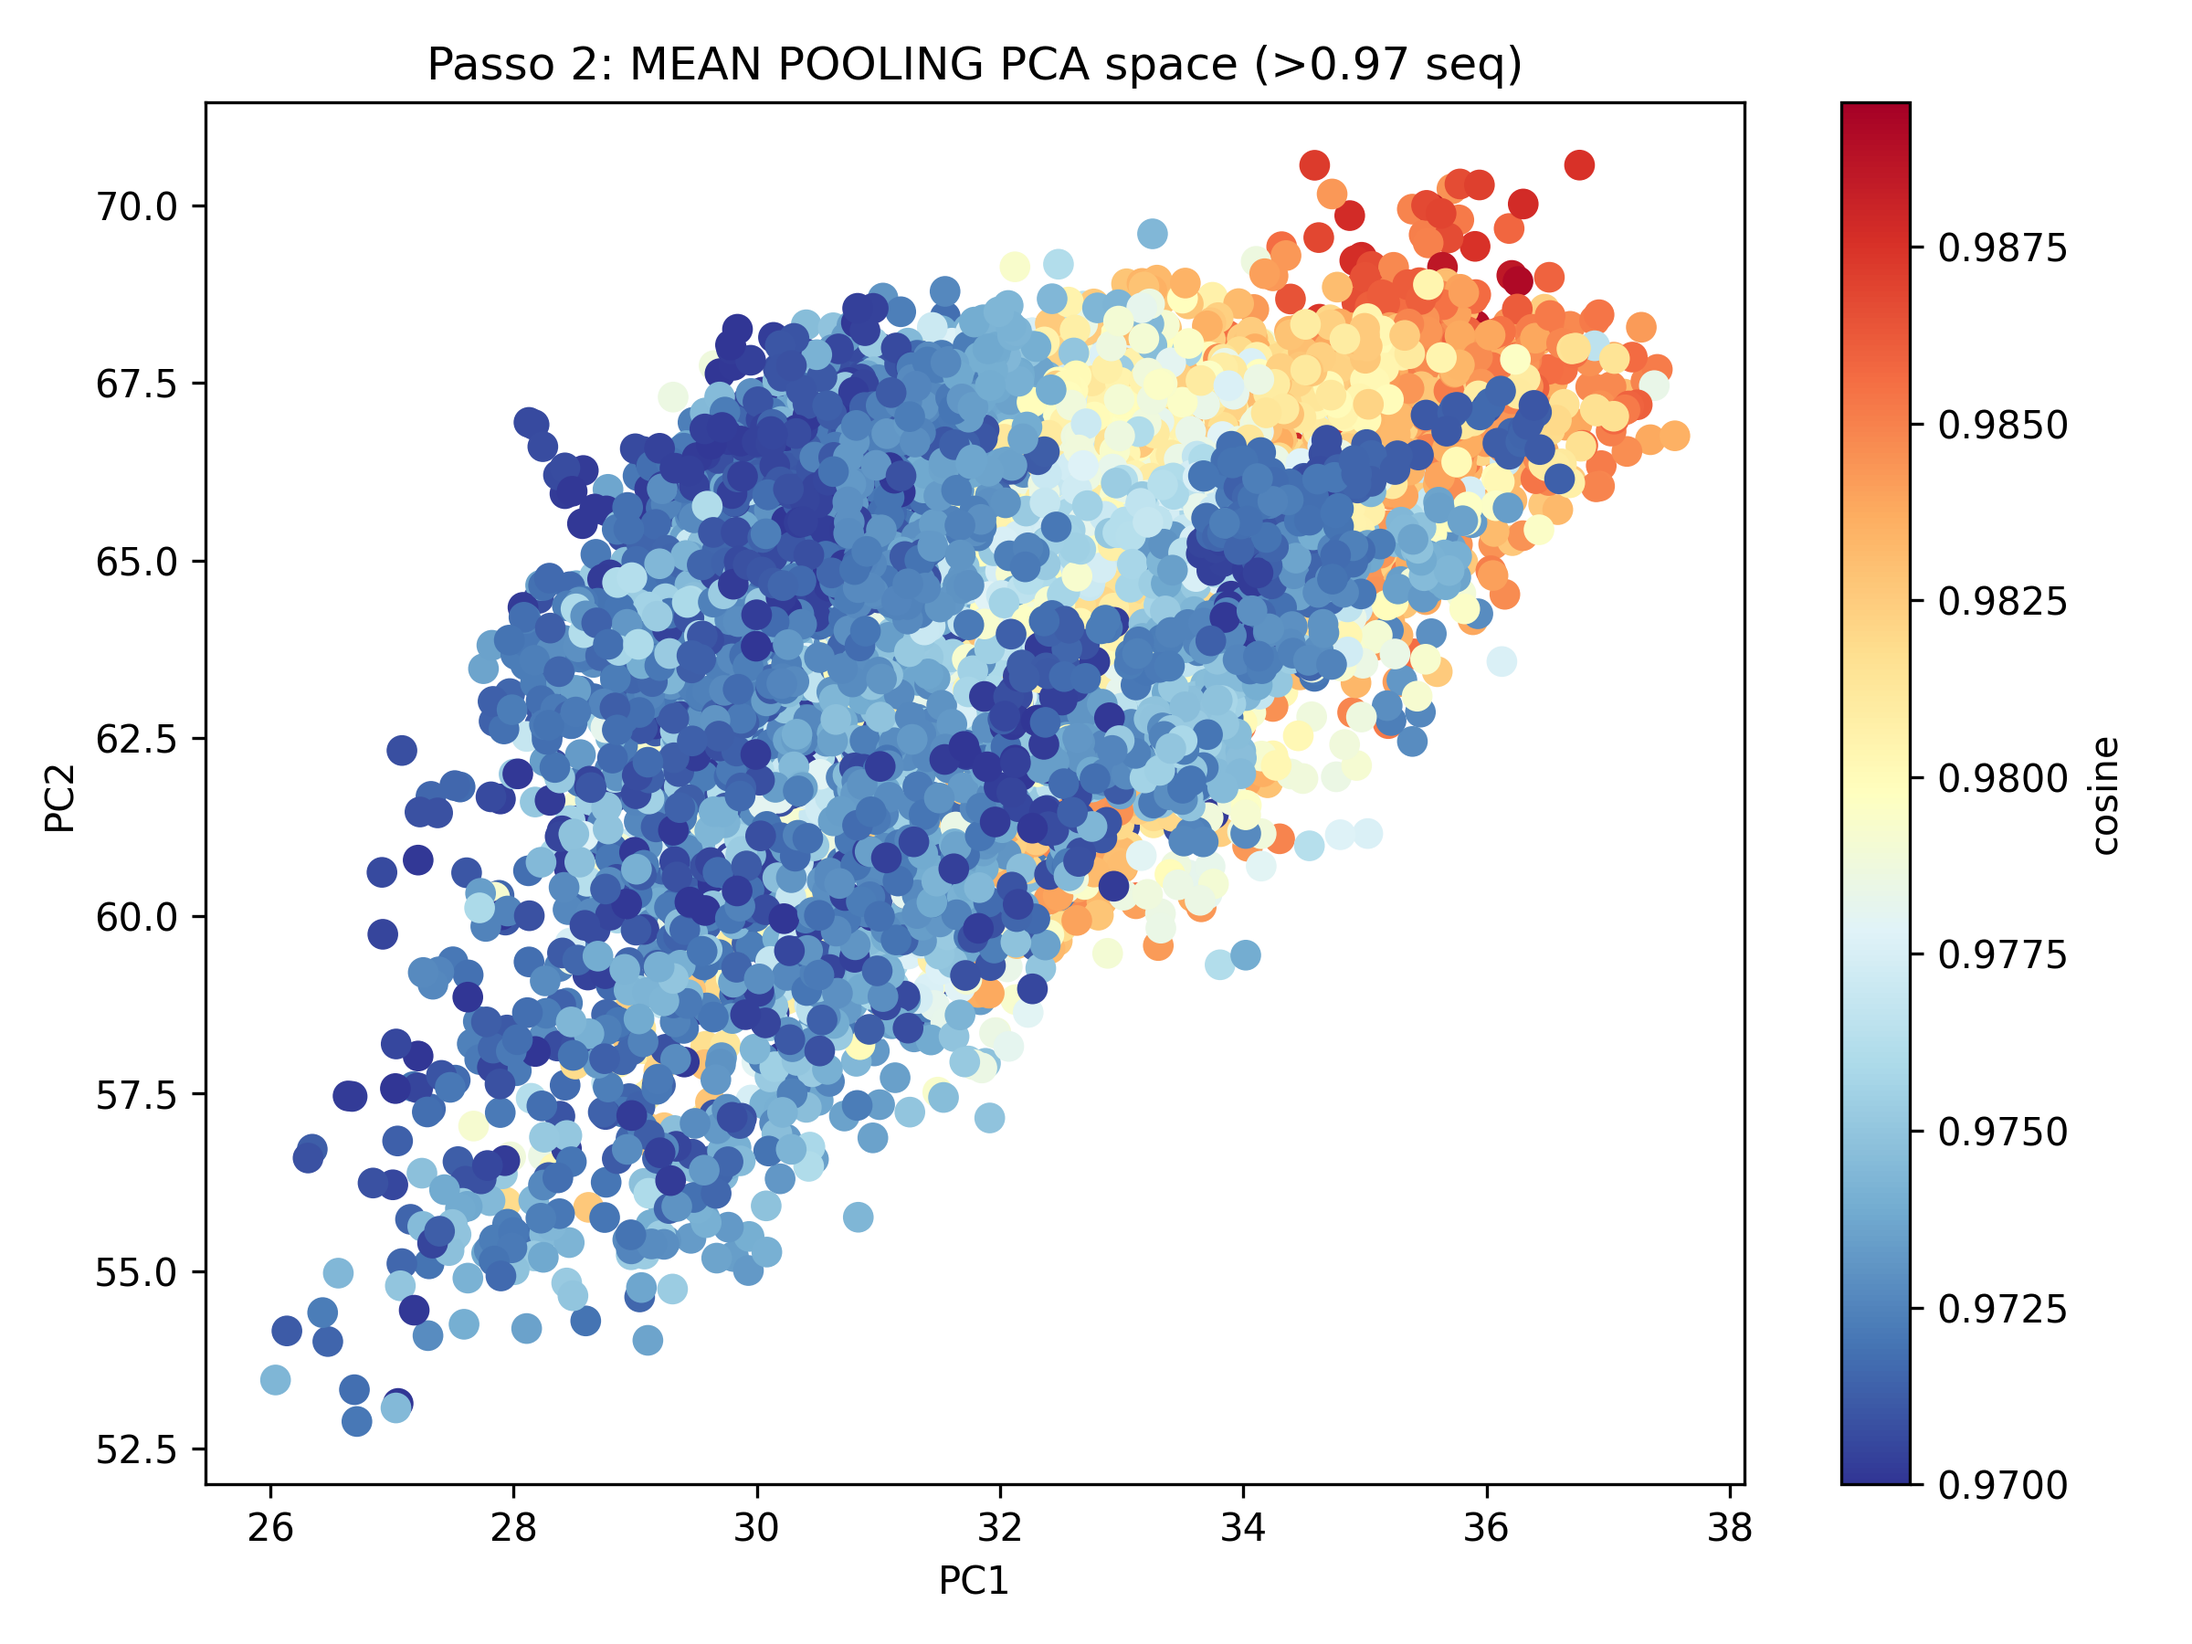
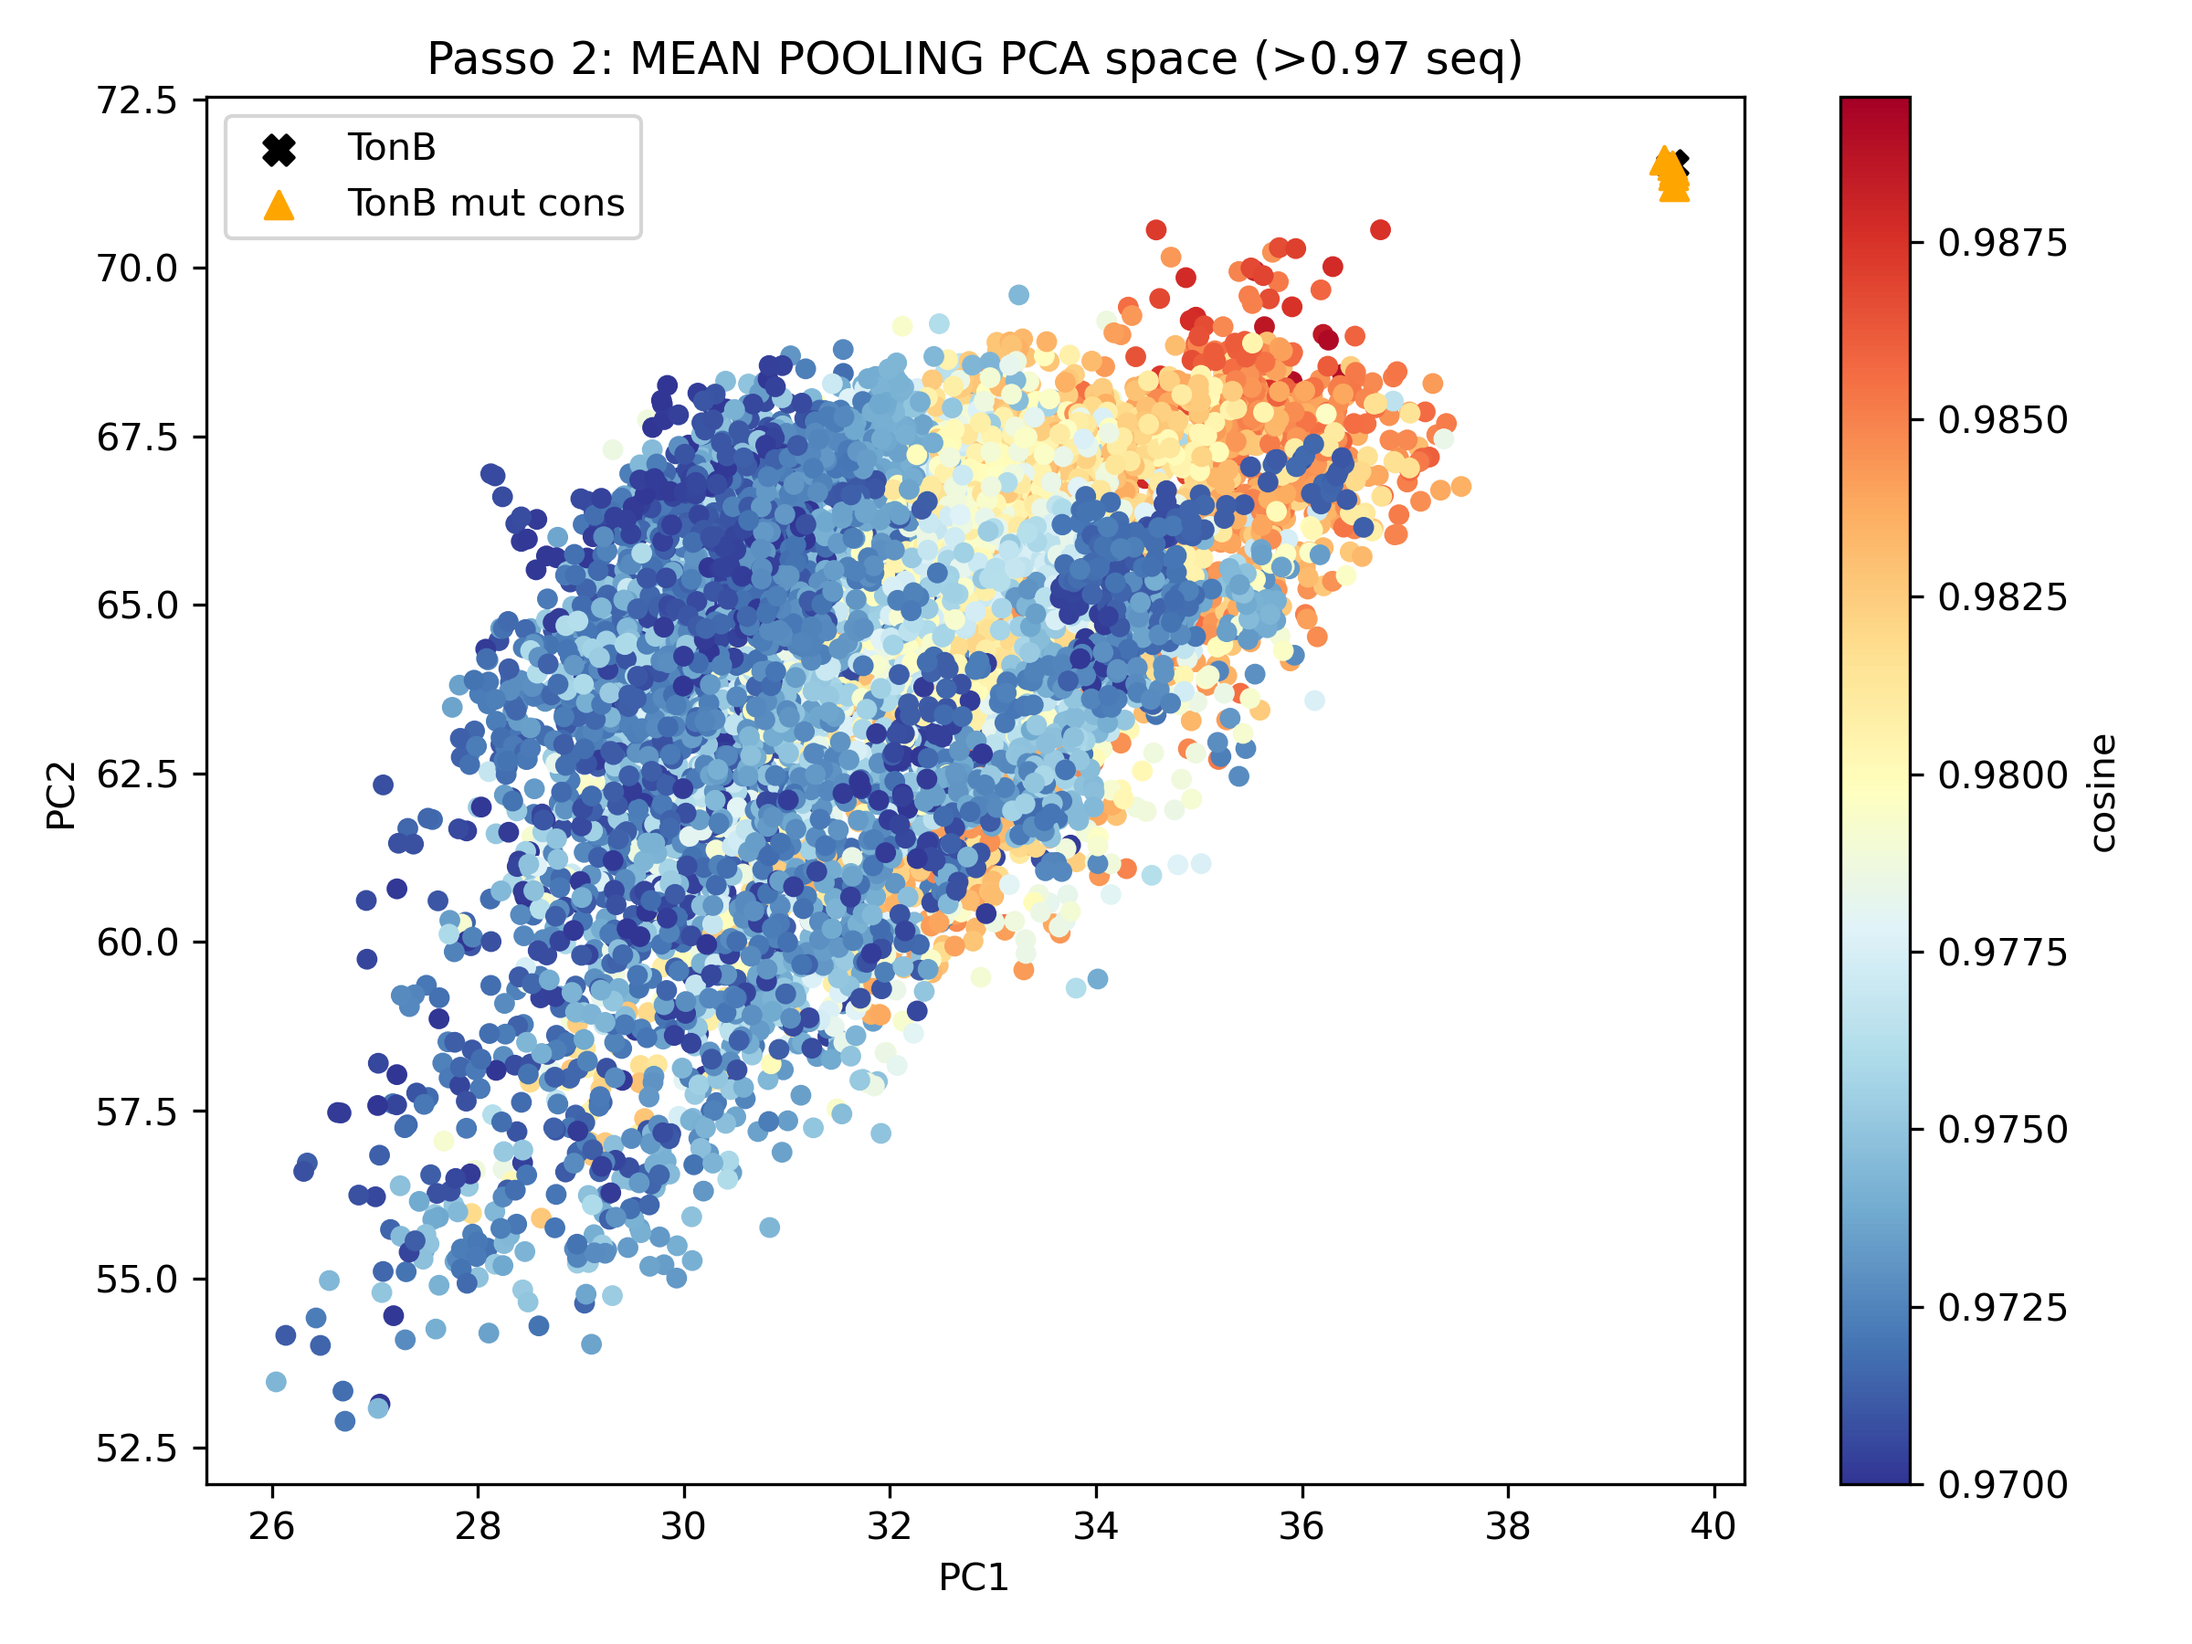
added also the tonb point and tonb mutation points on the 2d and 3d graphs.

diff --git a/analysis/anlysis_perplexity/step_2_3d.py b/analysis/anlysis_perplexity/step_2_3d.py
@@ -10,6 +10,29 @@ from esm import pretrained
 import joblib
 from tqdm import tqdm
 from mpl_toolkits.mplot3d import Axes3D  # necessario per 3D
+from Bio.Align import substitution_matrices
+import random
+
+blosum62 = substitution_matrices.load("BLOSUM62")
+
+# sequenza TonB
+tonb_seq = "MTLDLPRRFPWPTLLSVCIHGAVVAGLLYTSVHQVIELPAPAQPISVTMVTPADLEPPQAVQPPPEPVVEPEPEPEPIPEPPKEAPVVIEKPKPKPKPKPKPVKKVQEQPKRDVKPVESRPASPFENTAPARLTSSTATAATSKPVTSVASGPRALSRNQPQYPARAQALRIEGQVKVKFDVTPDGRVDNVQILSAKPANMFEREVKNAMRRWRYEPGKPGSGIVVNILFKINGTTEIQ"
+
+def conservative_mutations(seq, n_mut=5):
+    variants = []
+    aa_list = list("ACDEFGHIKLMNPQRSTVWY")
+    for _ in range(n_mut):
+        seq_mut = list(seq)
+        pos = random.randint(0, len(seq)-1)
+        original = seq_mut[pos]
+        cons_aas = [aa for aa in aa_list if blosum62[original, aa] >= 1 and aa != original]
+        if cons_aas:
+            seq_mut[pos] = random.choice(cons_aas)
+        variants.append("".join(seq_mut))
+    return variants
+
+tonb_variants = conservative_mutations(tonb_seq, n_mut=5)
+print("Varianti conservative TonB:", tonb_variants)
 
 
 # === 1. ADATTA: PATHS ===
@@ -40,6 +63,36 @@ batch_converter = alphabet.get_batch_converter()
 
 # === 4. ESM + PCA + MEAN POOLING (BATCH SAFE) ===
 print('Calcolo embedding...')
+
+# TonB originale
+data_tonb = [("TonB", tonb_seq)]
+_, _, tokens_tonb = batch_converter(data_tonb)
+tokens_tonb = tokens_tonb.to(device)
+
+with torch.no_grad():
+    out_tonb = model(tokens_tonb, repr_layers=[28], return_contacts=False)
+    reps_tonb = out_tonb["representations"][28][:, 1:-1]
+    reps_pca_tonb = (reps_tonb - pca_mean) @ pca_components.T
+    mean_pooled_tonb = reps_pca_tonb.mean(dim=1).cpu().numpy()  # [1, 640]
+
+# TonB mutazioni conservative
+mean_pooled_variants = []
+for i, var_seq in enumerate(tonb_variants):
+    data_var = [(f'TonB_mut{i+1}', var_seq)]
+    _, _, tokens_var = batch_converter(data_var)
+    tokens_var = tokens_var.to(device)
+
+    with torch.no_grad():
+        out_var = model(tokens_var, repr_layers=[28], return_contacts=False)
+        reps_var = out_var["representations"][28][:, 1:-1]
+        reps_pca_var = (reps_var - pca_mean) @ pca_components.T
+        mean_pooled_var = reps_pca_var.mean(dim=1).cpu().numpy()
+
+    mean_pooled_variants.append(mean_pooled_var)
+
+mean_pooled_variants = np.concatenate(mean_pooled_variants, axis=0)
+
+
 
 all_mean = []
 sequences = df['sequence'].tolist()
@@ -75,37 +128,6 @@ print(f'Mean pooled: {mean_pooled.shape}')
 df['PC1'] = mean_pooled[:, 0]
 df['PC2'] = mean_pooled[:, 1]
 
-# === 7. PLOT con Matplotlib ===
-
-# Scatter 1: colore continuo "cosine"
-plt.figure(figsize=(8,6))
-sc = plt.scatter(df['PC1'], df['PC2'], c=df['cosine'], cmap='RdYlBu_r', s=50)
-plt.colorbar(sc, label='cosine')
-plt.xlabel('PC1')
-plt.ylabel('PC2')
-plt.title('Passo 2: MEAN POOLING PCA space (>0.97 seq)')
-plt.tight_layout()
-plt.savefig('plot1_cosine_matplotlib.png', dpi=300)
-plt.close()
-
-# Scatter 2: colore discreto "chain_id"
-plt.figure(figsize=(8,6))
-# assegna un colore diverso a ogni catena
-chain_ids = df['chain_id'].unique()
-colors = plt.cm.tab20(np.linspace(0,1,len(chain_ids)))  # mappa di colori discreti
-color_dict = dict(zip(chain_ids, colors))
-
-plt.scatter(df['PC1'], df['PC2'], c=df['chain_id'].map(color_dict), s=50)
-plt.xlabel('PC1')
-plt.ylabel('PC2')
-plt.title('Passo 2: per CATENA')
-# legenda
-for cid, color in color_dict.items():
-    plt.scatter([], [], c=[color], label=cid)
-plt.legend(title='chain_id', bbox_to_anchor=(1.05, 1), loc='upper left')
-plt.tight_layout()
-plt.savefig('plot2_chains_matplotlib.png', dpi=300)
-plt.close()
 
 # Salva dataframe
 df.to_csv('df_con_pc.csv', index=False)
@@ -116,44 +138,37 @@ print('✅ SALVATO: plot1_cosine_matplotlib.png, plot2_chains_matplotlib.png, df
 # === 8. PC1 vs PC2 vs PC3 (3D) ===
 df['PC3'] = mean_pooled[:, 2]
 
-# --- Scatter 3D colore continuo "cosine" ---
-fig = plt.figure(figsize=(8,6))
-ax = fig.add_subplot(111, projection='3d')
-p = ax.scatter(df['PC1'], df['PC2'], df['PC3'], c=df['cosine'], cmap='RdYlBu_r', s=50)
-fig.colorbar(p, ax=ax, label='cosine')
-ax.set_xlabel('PC1')
-ax.set_ylabel('PC2')
-ax.set_zlabel('PC3')
-ax.set_title('Passo 2: MEAN POOLING PCA space 3D (>0.97 seq)')
-plt.tight_layout()
-plt.savefig('plot3_cosine_3D_matplotlib.png', dpi=300)
-plt.close()
-
-# --- Scatter 3D colore discreto "chain_id" ---
-fig = plt.figure(figsize=(8,6))
-ax = fig.add_subplot(111, projection='3d')
 
 # assegna colori
 chain_ids = df['chain_id'].unique()
 colors = plt.cm.tab20(np.linspace(0,1,len(chain_ids)))
 color_dict = dict(zip(chain_ids, colors))
 
+# Scatter 3D cosine
+fig = plt.figure(figsize=(8,6))
+ax = fig.add_subplot(111, projection='3d')
+p = ax.scatter(df['PC1'], df['PC2'], df['PC3'], c=df['cosine'], cmap='RdYlBu_r', s=50)
+ax.scatter(mean_pooled_tonb[:,0], mean_pooled_tonb[:,1], mean_pooled_tonb[:,2], c='black', s=60, marker='X', label='TonB')
+ax.scatter(mean_pooled_variants[:,0], mean_pooled_variants[:,1], mean_pooled_variants[:,2], c='orange', s=50, marker='^', label='TonB mut cons')
+fig.colorbar(p, ax=ax, label='cosine')
+ax.set_xlabel('PC1'); ax.set_ylabel('PC2'); ax.set_zlabel('PC3')
+ax.set_title('Passo 2: MEAN POOLING PCA space 3D (>0.97 seq)')
+plt.legend()
+plt.tight_layout()
+plt.savefig('plot3_cosine_3D_matplotlib.png', dpi=300)
+plt.close()
+
+# Scatter 3D chain_id
+fig = plt.figure(figsize=(8,6))
+ax = fig.add_subplot(111, projection='3d')
 for cid in chain_ids:
     mask = df['chain_id'] == cid
-    ax.scatter(
-        df.loc[mask, 'PC1'],
-        df.loc[mask, 'PC2'],
-        df.loc[mask, 'PC3'],
-        color=color_dict[cid],
-        s=50,
-        label=cid
-    )
-
-ax.set_xlabel('PC1')
-ax.set_ylabel('PC2')
-ax.set_zlabel('PC3')
+    ax.scatter(df.loc[mask,'PC1'], df.loc[mask,'PC2'], df.loc[mask,'PC3'], color=color_dict[cid], s=50, label=cid)
+ax.scatter(mean_pooled_tonb[:,0], mean_pooled_tonb[:,1], mean_pooled_tonb[:,2], c='black', s=60, marker='X', label='TonB')
+ax.scatter(mean_pooled_variants[:,0], mean_pooled_variants[:,1], mean_pooled_variants[:,2], c='orange', s=50, marker='^', label='TonB mut cons')
+ax.set_xlabel('PC1'); ax.set_ylabel('PC2'); ax.set_zlabel('PC3')
 ax.set_title('Passo 2: per CATENA (3D)')
-ax.legend(title='chain_id', bbox_to_anchor=(1.05, 1), loc='upper left')
+ax.legend(title='chain_id', bbox_to_anchor=(1.05,1), loc='upper left')
 plt.tight_layout()
 plt.savefig('plot4_chains_3D_matplotlib.png', dpi=300)
 plt.close()

diff --git a/analysis/anlysis_perplexity/step_2.py b/analysis/anlysis_perplexity/step_2.py
@@ -9,6 +9,31 @@ import matplotlib.pyplot as plt
 from esm import pretrained
 import joblib
 from tqdm import tqdm
+from Bio.Align import substitution_matrices
+import random
+
+blosum62 = substitution_matrices.load("BLOSUM62")
+
+def conservative_mutations(seq, n_mut=5):
+    variants = []
+    aa_list = list("ACDEFGHIKLMNPQRSTVWY")
+    for _ in range(n_mut):
+        seq_mut = list(seq)
+        # scegli una posizione casuale
+        pos = random.randint(0, len(seq)-1)
+        original = seq_mut[pos]
+        # trova sostituzioni conservative
+        cons_aas = [aa for aa in aa_list if blosum62[original, aa] >= 1 and aa != original]
+        if cons_aas:
+            seq_mut[pos] = random.choice(cons_aas)
+        variants.append("".join(seq_mut))
+    return variants
+
+# --- 0. SEQUENZA TONB ---
+tonb_seq = "MTLDLPRRFPWPTLLSVCIHGAVVAGLLYTSVHQVIELPAPAQPISVTMVTPADLEPPQAVQPPPEPVVEPEPEPEPIPEPPKEAPVVIEKPKPKPKPKPKPVKKVQEQPKRDVKPVESRPASPFENTAPARLTSSTATAATSKPVTSVASGPRALSRNQPQYPARAQALRIEGQVKVKFDVTPDGRVDNVQILSAKPANMFEREVKNAMRRWRYEPGKPGSGIVVNILFKINGTTEIQ"  # metti qui la sequenza reale
+tonb_variants = conservative_mutations(tonb_seq, n_mut=5)
+print("Varianti conservative:", tonb_variants)
+
 
 # === 1. ADATTA: PATHS ===
 df_path = './dataset_bilanciato_097.csv'  # dal Passo 1
@@ -20,6 +45,13 @@ BATCH_SIZE = 8  # se crasha ancora -> 4
 
 device = "cuda" if torch.cuda.is_available() else "cpu"
 print(f'Device: {device}')
+
+if device == "cuda":
+    print(f'GPU name: {torch.cuda.get_device_name(0)}')
+    print(f'Total GPU memory: {torch.cuda.get_device_properties(0).total_memory / 1e9:.2f} GB')
+    print(f'Allocated memory: {torch.cuda.memory_allocated(0)/1e6:.1f} MB')
+    print(f'Cached memory: {torch.cuda.memory_reserved(0)/1e6:.1f} MB')
+
 
 # === 2. CARICA ===
 df = pd.read_csv(df_path)
@@ -38,6 +70,36 @@ batch_converter = alphabet.get_batch_converter()
 
 # === 4. ESM + PCA + MEAN POOLING (BATCH SAFE) ===
 print('Calcolo embedding...')
+
+
+
+data_tonb = [("TonB", tonb_seq)]
+_, _, tokens_tonb = batch_converter(data_tonb)
+tokens_tonb = tokens_tonb.to(device)
+
+with torch.no_grad():
+    out_tonb = model(tokens_tonb, repr_layers=[28], return_contacts=False)
+    reps_tonb = out_tonb["representations"][28][:, 1:-1]  # [1, L, 1280]
+    reps_pca_tonb = (reps_tonb - pca_mean) @ pca_components.T  # [1, L, 640]
+    mean_pooled_tonb = reps_pca_tonb.mean(dim=1).cpu().numpy()  # [1, 640]
+
+mean_pooled_variants = []
+for i, var_seq in enumerate(tonb_variants):
+    data_var = [(f'TonB_mut{i+1}', var_seq)]
+    _, _, tokens_var = batch_converter(data_var)
+    tokens_var = tokens_var.to(device)
+    
+    with torch.no_grad():
+        out_var = model(tokens_var, repr_layers=[28], return_contacts=False)
+        reps_var = out_var["representations"][28][:, 1:-1]  # [1, L, 1280]
+        reps_pca_var = (reps_var - pca_mean) @ pca_components.T
+        mean_pooled_var = reps_pca_var.mean(dim=1).cpu().numpy()
+    
+    mean_pooled_variants.append(mean_pooled_var)
+
+mean_pooled_variants = np.concatenate(mean_pooled_variants, axis=0)
+
+
 
 all_mean = []
 sequences = df['sequence'].tolist()
@@ -77,33 +139,43 @@ df['PC2'] = mean_pooled[:, 1]
 
 # Scatter 1: colore continuo "cosine"
 plt.figure(figsize=(8,6))
-sc = plt.scatter(df['PC1'], df['PC2'], c=df['cosine'], cmap='RdYlBu_r', s=50)
+sc = plt.scatter(df['PC1'], df['PC2'], c=df['cosine'], cmap='RdYlBu_r', s=20)
+# TonB originale
+plt.scatter(mean_pooled_tonb[:,0], mean_pooled_tonb[:,1], c='black', s=60, marker='X', label='TonB')
+# TonB mutazioni conservative
+plt.scatter(mean_pooled_variants[:,0], mean_pooled_variants[:,1], c='orange', s=50, marker='^', label='TonB mut cons')
 plt.colorbar(sc, label='cosine')
 plt.xlabel('PC1')
 plt.ylabel('PC2')
 plt.title('Passo 2: MEAN POOLING PCA space (>0.97 seq)')
+plt.legend()
 plt.tight_layout()
 plt.savefig('plot1_cosine_matplotlib.png', dpi=300)
 plt.close()
 
+
 # Scatter 2: colore discreto "chain_id"
-plt.figure(figsize=(8,6))
 # assegna un colore diverso a ogni catena
 chain_ids = df['chain_id'].unique()
 colors = plt.cm.tab20(np.linspace(0,1,len(chain_ids)))  # mappa di colori discreti
 color_dict = dict(zip(chain_ids, colors))
 
-plt.scatter(df['PC1'], df['PC2'], c=df['chain_id'].map(color_dict), s=50)
+plt.figure(figsize=(8,6))
+plt.scatter(df['PC1'], df['PC2'], c=df['chain_id'].map(color_dict), s=20)
+# TonB originale
+plt.scatter(mean_pooled_tonb[:,0], mean_pooled_tonb[:,1], c='black', s=60, marker='X', label='TonB')
+# TonB mutazioni conservative
+plt.scatter(mean_pooled_variants[:,0], mean_pooled_variants[:,1], c='orange', s=50, marker='^', label='TonB mut cons')
 plt.xlabel('PC1')
 plt.ylabel('PC2')
 plt.title('Passo 2: per CATENA')
-# legenda
 for cid, color in color_dict.items():
     plt.scatter([], [], c=[color], label=cid)
 plt.legend(title='chain_id', bbox_to_anchor=(1.05, 1), loc='upper left')
 plt.tight_layout()
 plt.savefig('plot2_chains_matplotlib.png', dpi=300)
 plt.close()
+
 
 # Salva dataframe
 df.to_csv('df_con_pc.csv', index=False)
